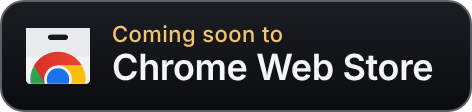
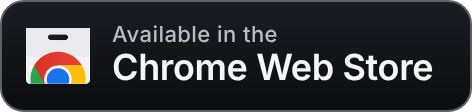
docs(readme): link the Chrome Web Store page

Changed region(s): [[0.2373, 0.2143, 0.6229, 0.4286]]

diff --git a/README.es.md b/README.es.md
@@ -18,7 +18,7 @@
   <a href="https://github.com/lucaswotta/auracore"><img src="https://img.shields.io/github/stars/lucaswotta/auracore?style=social" alt="Deja una estrella en GitHub"></a>
   <a href="https://ko-fi.com/lucaswotta"><img src="https://img.shields.io/badge/Ko--fi-Apoya-FF5E5B?logo=ko-fi&logoColor=white" alt="Apoya auracore en Ko-fi"></a>
   <a href="https://github.com/sponsors/lucaswotta"><img src="https://img.shields.io/badge/GitHub-Patrocina-EA4AAA?logo=githubsponsors&logoColor=white" alt="Patrocina en GitHub"></a>
-  <img src="https://img.shields.io/badge/Chrome-116%2B-4285F4?logo=googlechrome&logoColor=white" alt="Chrome 116+">
+  <a href="https://chromewebstore.google.com/detail/auracore/gdimfnfkcbhfkmopkgbkjnjbmbpbipni"><img src="https://img.shields.io/badge/Chrome-116%2B-4285F4?logo=googlechrome&logoColor=white" alt="Chrome 116+"></a>
   <img src="https://img.shields.io/badge/Firefox-128%2B-FF7139?logo=firefoxbrowser&logoColor=white" alt="Firefox 128+">
   <img src="https://img.shields.io/badge/dynamic/json?url=https%3A%2F%2Fraw.githubusercontent.com%2Flucaswotta%2Fauracore%2Fmain%2Fmanifest.json&query=%24.version&label=versi%C3%B3n&color=5865f2" alt="versión">
 </p>
@@ -29,7 +29,7 @@ auracore es una extensión para Chrome, Edge y Firefox. Elige un estilo y el aud
 
 <p align="center">
   <a href="https://microsoftedge.microsoft.com/addons/detail/auracore/eoijcnmpkocgebbdolcipnbhgkhknmbo"><img src="docs/stores/edge-es.webp" alt="Disponible en Edge Add-ons" width="236"></a>
-  <img src="docs/stores/chrome-es.webp" alt="Próximamente en Chrome Web Store" width="236">
+  <a href="https://chromewebstore.google.com/detail/auracore/gdimfnfkcbhfkmopkgbkjnjbmbpbipni"><img src="docs/stores/chrome-es.webp" alt="Disponible en Chrome Web Store" width="236"></a>
   <img src="docs/stores/firefox-es.webp" alt="Próximamente en Firefox Add-ons" width="236">
 </p>
 
@@ -101,15 +101,15 @@ Mientras la música suena, se mueve con ella: respira, se balancea o da saltitos
 
 ## Instalación
 
-En Microsoft Edge, instala auracore desde [Edge Add-ons](https://microsoftedge.microsoft.com/addons/detail/auracore/eoijcnmpkocgebbdolcipnbhgkhknmbo).
+En Chrome, instala auracore desde la [Chrome Web Store](https://chromewebstore.google.com/detail/auracore/gdimfnfkcbhfkmopkgbkjnjbmbpbipni). En Microsoft Edge, instálalo desde [Edge Add-ons](https://microsoftedge.microsoft.com/addons/detail/auracore/eoijcnmpkocgebbdolcipnbhgkhknmbo).
 
-auracore se envió a la Chrome Web Store y a addons.mozilla.org el 24 de octubre de 2026 y está en revisión. Hasta que se apruebe, instálalo en Chrome o Firefox desde este repositorio:
+La versión para Firefox se envió a addons.mozilla.org el 24 de octubre de 2026 y está en revisión. Hasta que se apruebe, instálala desde este repositorio: ejecuta `npm run package`, abre `about:debugging#/runtime/this-firefox`, haz clic en Cargar complemento temporal y elige `dist/auracore-firefox.zip`. Firefox quita los complementos temporales al cerrarse.
+
+Para ejecutar el código de este repositorio en Chrome:
 
 1. Descarga o clona el repositorio.
 2. Abre `chrome://extensions` y activa el Modo de desarrollador.
 3. Haz clic en Cargar descomprimida y selecciona la carpeta del repositorio.
-
-En Firefox: ejecuta `npm run package`, abre `about:debugging#/runtime/this-firefox`, haz clic en Cargar complemento temporal y elige `dist/auracore-firefox.zip`. Firefox quita los complementos temporales al cerrarse.
 
 ## Uso
 

diff --git a/README.md b/README.md
@@ -18,7 +18,7 @@
   <a href="https://github.com/lucaswotta/auracore"><img src="https://img.shields.io/github/stars/lucaswotta/auracore?style=social" alt="Star auracore on GitHub"></a>
   <a href="https://ko-fi.com/lucaswotta"><img src="https://img.shields.io/badge/Ko--fi-Support-FF5E5B?logo=ko-fi&logoColor=white" alt="Support auracore on Ko-fi"></a>
   <a href="https://github.com/sponsors/lucaswotta"><img src="https://img.shields.io/badge/GitHub-Sponsor-EA4AAA?logo=githubsponsors&logoColor=white" alt="Sponsor on GitHub"></a>
-  <img src="https://img.shields.io/badge/Chrome-116%2B-4285F4?logo=googlechrome&logoColor=white" alt="Chrome 116+">
+  <a href="https://chromewebstore.google.com/detail/auracore/gdimfnfkcbhfkmopkgbkjnjbmbpbipni"><img src="https://img.shields.io/badge/Chrome-116%2B-4285F4?logo=googlechrome&logoColor=white" alt="Chrome 116+"></a>
   <img src="https://img.shields.io/badge/Firefox-128%2B-FF7139?logo=firefoxbrowser&logoColor=white" alt="Firefox 128+">
   <img src="https://img.shields.io/badge/dynamic/json?url=https%3A%2F%2Fraw.githubusercontent.com%2Flucaswotta%2Fauracore%2Fmain%2Fmanifest.json&query=%24.version&label=version&color=5865f2" alt="version">
 </p>
@@ -29,7 +29,7 @@ auracore is an extension for Chrome, Edge and Firefox. Pick a style and the tab'
 
 <p align="center">
   <a href="https://microsoftedge.microsoft.com/addons/detail/auracore/eoijcnmpkocgebbdolcipnbhgkhknmbo"><img src="docs/stores/edge-en.webp" alt="Available on Edge Add-ons" width="236"></a>
-  <img src="docs/stores/chrome-en.webp" alt="Coming soon to the Chrome Web Store" width="236">
+  <a href="https://chromewebstore.google.com/detail/auracore/gdimfnfkcbhfkmopkgbkjnjbmbpbipni"><img src="docs/stores/chrome-en.webp" alt="Available in the Chrome Web Store" width="236"></a>
   <img src="docs/stores/firefox-en.webp" alt="Coming soon to Firefox Add-ons" width="236">
 </p>
 
@@ -101,15 +101,15 @@ While the music plays she moves with it, a little breathing, swaying or bouncing
 
 ## Installation
 
-In Microsoft Edge, install auracore from [Edge Add-ons](https://microsoftedge.microsoft.com/addons/detail/auracore/eoijcnmpkocgebbdolcipnbhgkhknmbo).
+In Chrome, install auracore from the [Chrome Web Store](https://chromewebstore.google.com/detail/auracore/gdimfnfkcbhfkmopkgbkjnjbmbpbipni). In Microsoft Edge, install it from [Edge Add-ons](https://microsoftedge.microsoft.com/addons/detail/auracore/eoijcnmpkocgebbdolcipnbhgkhknmbo).
 
-auracore was submitted to the Chrome Web Store and to addons.mozilla.org on October 24, 2026, and is awaiting review. Until it is approved, install it in Chrome or Firefox from this repository:
+The Firefox version was submitted to addons.mozilla.org on October 24, 2026, and is awaiting review. Until it is approved, install it from this repository: run `npm run package`, open `about:debugging#/runtime/this-firefox`, click Load Temporary Add-on and pick `dist/auracore-firefox.zip`. Firefox removes temporary add-ons when it closes.
+
+To run the code from this repository in Chrome:
 
 1. Download or clone the repository.
 2. Open `chrome://extensions` and turn on Developer mode.
 3. Click Load unpacked and select the repository folder.
-
-In Firefox: run `npm run package`, open `about:debugging#/runtime/this-firefox`, click Load Temporary Add-on and pick `dist/auracore-firefox.zip`. Firefox removes temporary add-ons when it closes.
 
 ## Usage
 

diff --git a/ROADMAP.md b/ROADMAP.md
@@ -47,7 +47,6 @@ Receitas de referência; os testes automatizados da suíte usam simulações de 
 - Firefox para Android (o desktop já roda a partir do 128).
 - Testes de DSP offline e integração no navegador via CDP.
 - Verificar a marca "auracore" no INPI e no TMview antes do lançamento.
-- Publicação na Chrome Web Store.
 
 ## Fora de escopo
 
